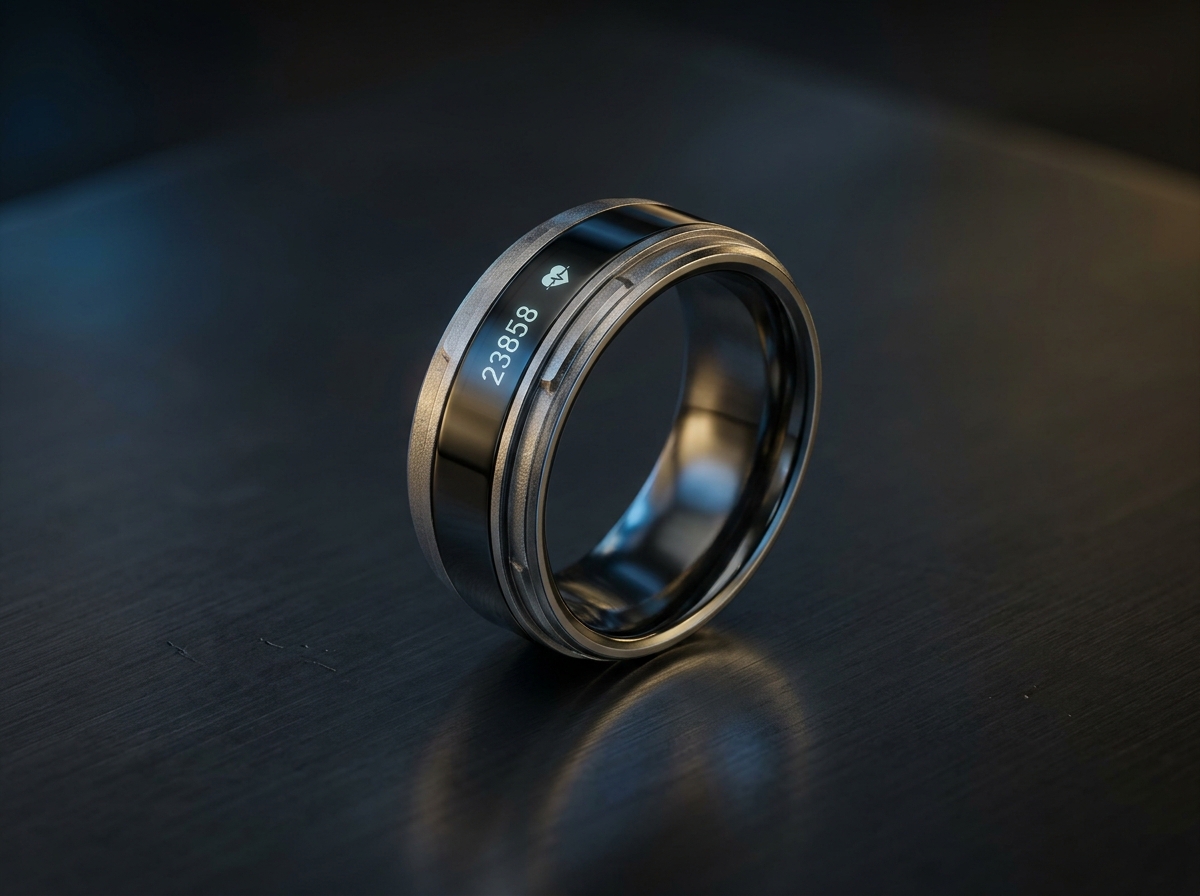
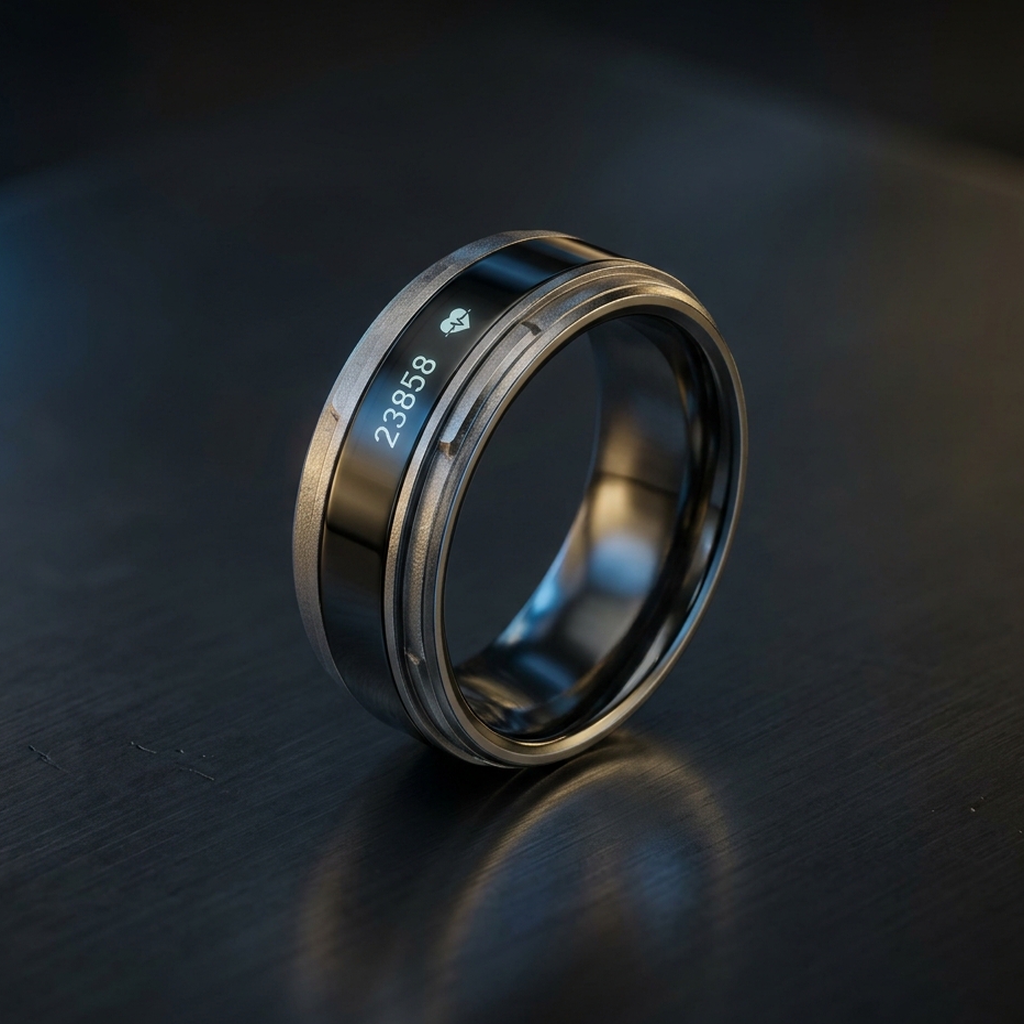
feat: add product finishes section, data, assets, and type definitions

diff --git a/lib/data.ts b/lib/data.ts
@@ -24,7 +24,7 @@ export const PRODUCTS: RingProduct[] = [
     description:
       "Ciepłe 18-karatowe złocenie PVD na rdzeniu z tytanu medycznego. Niezrównany luksus i prestiż.",
     price: 1499,
-    image: "/images/ring-image-1.png",
+    image: "/images/ring-image-9.png",
     availableSizes: [7, 8, 9, 10, 11, 12, 13],
   },
   {
@@ -40,6 +40,72 @@ export const PRODUCTS: RingProduct[] = [
     image: "/images/ring-image-4.png",
     availableSizes: [7, 8, 9, 10, 11, 12, 13],
   },
+  {
+    id: "onyx-ring-gloss-black",
+    name: "Onyx Ring Gloss Black",
+    series: "SERIA TITAN STEALTH",
+    badge: "Nowość",
+    finish: "black",
+    finishName: "Czarny Połysk",
+    description:
+      "Intensywna czerń z eleganckim, lustrzanym wykończeniem. Minimalistyczny design podkreślający nowoczesny charakter.",
+    price: 1399,
+    image: "/images/ring-image-4.png",
+    availableSizes: [7, 8, 9, 10, 11, 12, 13],
+  },
+  {
+    id: "titan-ring-brushed-silver",
+    name: "Titan Ring Brushed Silver",
+    series: "SERIA TITAN CLASSIC",
+    badge: "Bestseller",
+    finish: "silver",
+    finishName: "Szczotkowane Srebro",
+    description:
+      "Naturalny odcień tytanu z precyzyjnie szczotkowaną powierzchnią. Ponadczasowa elegancja i wyjątkowa trwałość.",
+    price: 1199,
+    image: "/images/ring-image-5.png",
+    availableSizes: [7, 8, 9, 10, 11, 12, 13],
+  },
+  {
+    id: "nova-ring-rose-gold",
+    name: "Nova Ring Rose Gold",
+    series: "SERIA TITAN LUXE",
+    badge: "Limitowana edycja",
+    finish: "rose-gold",
+    finishName: "Różowe Złoto",
+    description:
+      "Wyrafinowane wykończenie w odcieniu różowego złota. Subtelny połysk i lekka konstrukcja z wysokiej jakości tytanu.",
+    price: 1499,
+    image: "/images/ring-image-6.png",
+    availableSizes: [7, 8, 9, 10, 11, 12, 13],
+  },
+  {
+    id: "shadow-ring-gunmetal",
+    name: "Shadow Ring Gunmetal",
+    series: "SERIA TITAN STEALTH",
+    badge: "Nowość",
+    finish: "gunmetal",
+    finishName: "Grafitowy Metal",
+    description:
+      "Ciemny grafitowy odcień z metalicznym wykończeniem. Industrialny styl połączony z minimalistyczną formą.",
+    price: 1349,
+    image: "/images/ring-image-7.png",
+    availableSizes: [7, 8, 9, 10, 11, 12, 13],
+  },
+  {
+    id: "aurora-ring-titanium-blue",
+    name: "Aurora Ring Titanium Blue",
+    series: "SERIA TITAN SIGNATURE",
+    badge: "Ekskluzywny",
+    finish: "blue",
+    finishName: "Titanium Blue",
+    description:
+      "Głęboki metaliczny błękit z nowoczesnym wykończeniem. Wyjątkowy kolor inspirowany technologią i elegancją.",
+    price: 1449,
+    image: "/images/ring-image-8.png",
+    availableSizes: [7, 8, 9, 10, 11, 12, 13],
+  },
+
 ];
 
 export const SIZE_CHART: SizeChartItem[] = [

diff --git a/types/index.ts b/types/index.ts
@@ -1,43 +1,42 @@
 export interface RingProduct {
-  id: string;
-  name: string;
-  series: string;
-  badge?: string;
-  finish: "black" | "gold" | "silver";
-  finishName: string;
-  description: string;
-  price: number;
-  originalPrice?: number;
-  image: string;
-  availableSizes: number[];
+  id: string
+  name: string
+  series: string
+  badge?: string
+  finish: "black" | "gold" | "silver" | "blue" | "gunmetal" | "rose-gold"
+  finishName: string
+  description: string
+  price: number
+  originalPrice?: number
+  image: string
+  availableSizes: number[]
 }
 
 export interface CartItem {
-  id: string;
-  productId: string;
-  name: string;
-  finishName: string;
-  finish: "black" | "gold" | "silver";
-  size: number;
-  price: number;
-  quantity: number;
-  image: string;
+  id: string
+  productId: string
+  name: string
+  finishName: string
+  finish: "black" | "gold" | "silver" | "gunmetal" | "blue" | "rose-gold"
+  size: number
+  price: number
+  quantity: number
+  image: string
 }
 
 export interface Testimonial {
-  id: string;
-  rating: number;
-  title: string;
-  quote: string;
-  author: string;
-  initials: string;
-  location: string;
-  model: string;
+  id: string
+  rating: number
+  title: string
+  quote: string
+  author: string
+  initials: string
+  location: string
+  model: string
 }
 
 export interface SizeChartItem {
-  size: number;
-  diameterMm: number;
-  circumferenceMm: number;
+  size: number
+  diameterMm: number
+  circumferenceMm: number
 }
-

diff --git a/components/product-finishes-section.tsx b/components/product-finishes-section.tsx
@@ -87,7 +87,7 @@ export function ProductFinishesSection() {
                   </div>
 
                   {/* Product Image */}
-                  <div className="relative my-6 aspect-video w-full overflow-hidden rounded-xl border border-zinc-800/60 bg-zinc-950/80">
+                  <div className="relative my-6 aspect-square w-full overflow-hidden rounded-xl border border-zinc-800/60 bg-zinc-950/80">
                     <Image
                       src={product.image}
                       alt={product.name}
